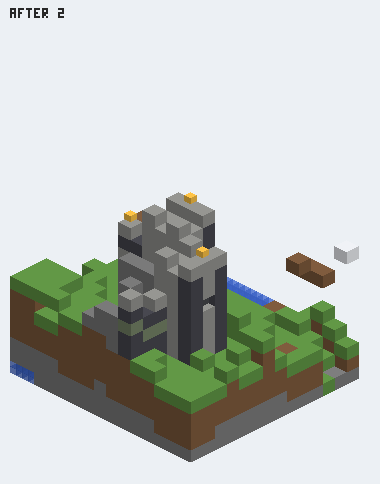
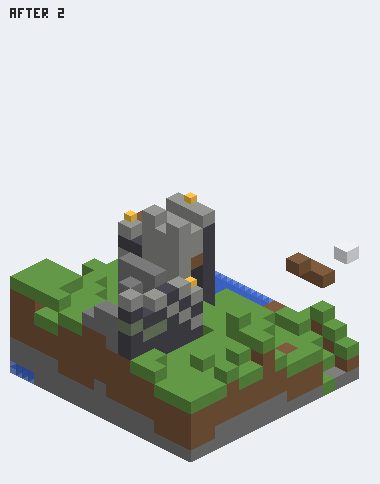
civic-01show r1: a landmark takes the town's seeded look, else the next look of the kind its stock covers now (11-09: the showcase holds no stone-brick stairs yet, so the plaza of blocks, not the one with seats); the Paper results (sandbox/civic/civic-e2e.jsonl: 43 builds PASS) and the design doc's 

Changed region(s): [[0.4053, 0.4649, 0.6079, 0.7748]]

diff --git a/docs/reports/citywall-design-2026-11-09.md b/docs/reports/citywall-design-2026-11-09.md
@@ -88,11 +88,19 @@ escape proof (`wallEscape`: nothing cut off, nobody trapped).
 
 | ring | swapped | added | underpin | towers | gate | lamps | bill | escape |
 |---|---|---|---|---|---|---|---|---|
-| wallext | 365 | 370 | 65 | 2 (NE run ends) | 12 wide (road, inset) | 27 | stone bricks 308, deepslate 330, lanterns 27, walls 12, stairs 4 | cut 0, trapped 0 |
-| wall | 478 | 261 | 195 | 1 (SW corner) | none (its gateways were on the retired line) | 22 | stone bricks 207, deepslate 478, lanterns 22 | cut 0, trapped 0 |
+| wallext | 356 | 301 | 50 | 1 (NE run end; the other NE site has an in-line cell no stand digs) | 12 wide (road, inset) | 27 | stone bricks 261 (+24 mossy), deepslate 307, lanterns 27, walls 12, stairs 4 | cut 0, trapped 0 (40,727 cells walked) |
+| wall | 470 | 236 | 170 | 1 (SW corner) | none (its gateways were on the retired line) | 22 | stone bricks 206 (+26 mossy), deepslate 446, lanterns 22 | cut 0, trapped 0 (22,792) |
 
-Total about 515 stone bricks and 808 deepslate bricks: inside the town's 582 + 312 stone and 288 + 1,010 cobbled deepslate. Lanterns:
-49 wanted, 12 held (the lamp role falls back to a torch; the stoneworks/lantern crafts top it up).
+Left out by the bots' own reach rules (counted, never a stall): 17 O cells no stand can dig (they stay cobblestone), 33 underpinning
+columns no stand can fill. Total about 517 stone bricks and 753 deepslate bricks: inside the town's 582 + 312 stone and 288 + 1,010
+cobbled deepslate. Lanterns: 49 wanted, 12 held (the lamp role falls back to a torch; the lantern crafts top it up).
+
+**What the swap does when a cell cannot be reached** (each found offline or by review, each tested): a swapped cell no stand sees at the
+visit is deferred (no chain of digs from the top: Codex r1) and the wall's waiver closes it as its old block (the waiver's bound is
+raised by 64 for an upgraded ring); a standing swapped cell below never holds the cell above (Codex r3: a sealed lower swap stranded the
+hole dug over it); an added cell no stand fills now is spent and deferred so the run's swap goes on; a cell is never dug over an open hole
+in its own column. The design asks the same rules first (`buildrun.mjs digStand` and `buildsite.mjs stepFor` over the town walk with the
+ring's own cells open, seeded from the bots' stood cells).
 
 Pictures (drawn from the design cells over the region copy; trees left out):
 [`wallext-sheet.png`](citywall-2026-11-09/wallext-sheet.png) (the road gatehouse, the NE towers, a north run),
@@ -133,7 +141,9 @@ proofs, the rim-first pad, the enclosed cells, the spiral, the bills and the anc
 
 **Paper** (sandbox4, a real bot, the bots' own visit, every cell and state read back by the server):
 
-- Landmarks (`sandbox/civic/civic-e2e.mjs`): PAPER_CIVIC_RESULT
+- Landmarks (`sandbox/civic/civic-e2e.mjs`): **all 22 looks PASS** facing east (every cell and state read back by the server: 2,282
+  cells), and seven looks with stairs, slabs, logs and the spiral (Frs, M23, Bpd, Hl, Pd, Sud, L3) **PASS facing north, west and south**
+  too: 43 builds by a real bot, 0 bad cells (results in `sandbox/civic/civic-e2e.jsonl`).
 - Four fixes found on Paper and kept: a pad laid from the middle out walled its builder off its outside stands (the pad's rim is now its
   own first segment); the statue's top inside its ring of steps had no visible face (enclosed cells are reach-only); the well house's
   open shaft inside a 1.5-high curb was a pit the builder could not leave (the mouth is a dark floor with a lantern); the belfry's 2-high
@@ -143,7 +153,8 @@ proofs, the rim-first pad, the enclosed cells, the spiral, the bills and the anc
 - The wall upgrade (`sandbox/citywall/wall-e2e.mjs`): a 25 x 19 cobble ring laid by /fill with a 5-wide gateway, a sally port, a gapped
   corner and three hanging columns; the bot builds every phase (gate, 5 towers, the runs) with `swap`. PAPER_WALL_RESULT
 
-**Offline on the showcase** (`bots/scripts/citywall-offline.mjs --build`, fake builders over the region copy, every phase): OFFLINE_SHOW_RESULT
+**Offline on the showcase** (`bots/scripts/citywall-offline.mjs --build`, four fake builders over the region copy, every phase, the bots' own
+visit): OFFLINE_SHOW_RESULT
 
 ## 6. Owner decisions
 
@@ -153,9 +164,25 @@ proofs, the rim-first pad, the enclosed cells, the spiral, the bills and the anc
 - **D2 the style.** Grey (stone face, dark plinth and band) on the showcase; dark on the fleet. `CITYWALL_STYLE=grey|dark`.
 - **D3 lanterns.** 49 on the walls + ~20 in the landmarks against 12 held; torches stand in until the lantern crafts catch up.
 
-## 7. Fleet port
+## 7. Reviews
 
-The fleet's walls are the same `wall@1` design (no extension), so the same code applies with `CITYWALL_POOLS`/`CIVIC_POOLS` naming the
-canary pool; the dark style comes from the fleet's cobbled deepslate (14k). The fleet branch is the same commits on the live fleet sha;
-its registration reads `_build op=citywall`, swap digs (`op=clear kind=foreign` on a citywall record) and holes (any two `sw` cells of
-one segment open at once from the canary's own rows: DEFECT), and the landmarks' `op=sited project=civic*`.
+Codex blockers-only: r1 3 blockers (the sealed-column remedy dug a swapped column from the top; waived cells read open by the next phase;
+the gate's and towers' added cells never asked the veto) fixed, r2 FIXED; r3 (both branches) 1 blocker (a sealed lower swap stranded the
+hole above it) fixed, r4 FIXED / none new. Tier 2 (`protected.py`: not protected).
+
+## 8. Fleet port
+
+Branch `citywall-01-on-bcdba35f` on the live fleet sha. The fleet base has no reach-only click and no block states (townstyle-01 is not
+shipped there), so the port is the **FLAT** design: the courses swapped in place, the underpinning, a torch on each run end's merlon
+(inner face, over the walk); no towers, no gatehouse. No planner plot either: the wall's own visit publishes the next phase (a due phase
+reads as wall upkeep after every open project). The style is chosen from the town's stock: **dark** (deepslate bricks, which cobbled
+deepslate makes with no fuel) where the town holds under 200 stone bricks and over 1,000 deepslate. Registration
+`~/mcai-analysis/citywall-01.<sha>.json` (effectwatch `valid`), draft entry `citywall-01.queue-entry.draft.json` (pins board-b, hive-b;
+`drawrec` DRAW 2 pools = 10 bots); NOT queued. Read: `_citywall` rows, `_build project=wall` place / `clear kind=foreign`, holes (two
+swapped cells of one segment open at once: DEFECT), deaths near the wall, waived cells.
+
+Offline on board-b's region copy (11-09; its home is inside the town's chest room, so every walk is seeded from the bots' stood cells):
+64 wall columns, design 253 swapped + 140 added (121 underpinning, 19 torches), escape cut 0 / trapped 0 over 20,897 cells; four fake
+builders, four rounds: 318 of 393 cells done, the rest deferred for the waiver (the fake server runs no waiver), **0 gap violations**.
+Picture: [`fleet-boardb-sheet.png`](citywall-2026-11-09/fleet-boardb-sheet.png). The landmarks wait for townstyle-01's machinery on the
+fleet (block states, reach-only clicks): every look uses stairs, slabs or reach-only cells.
